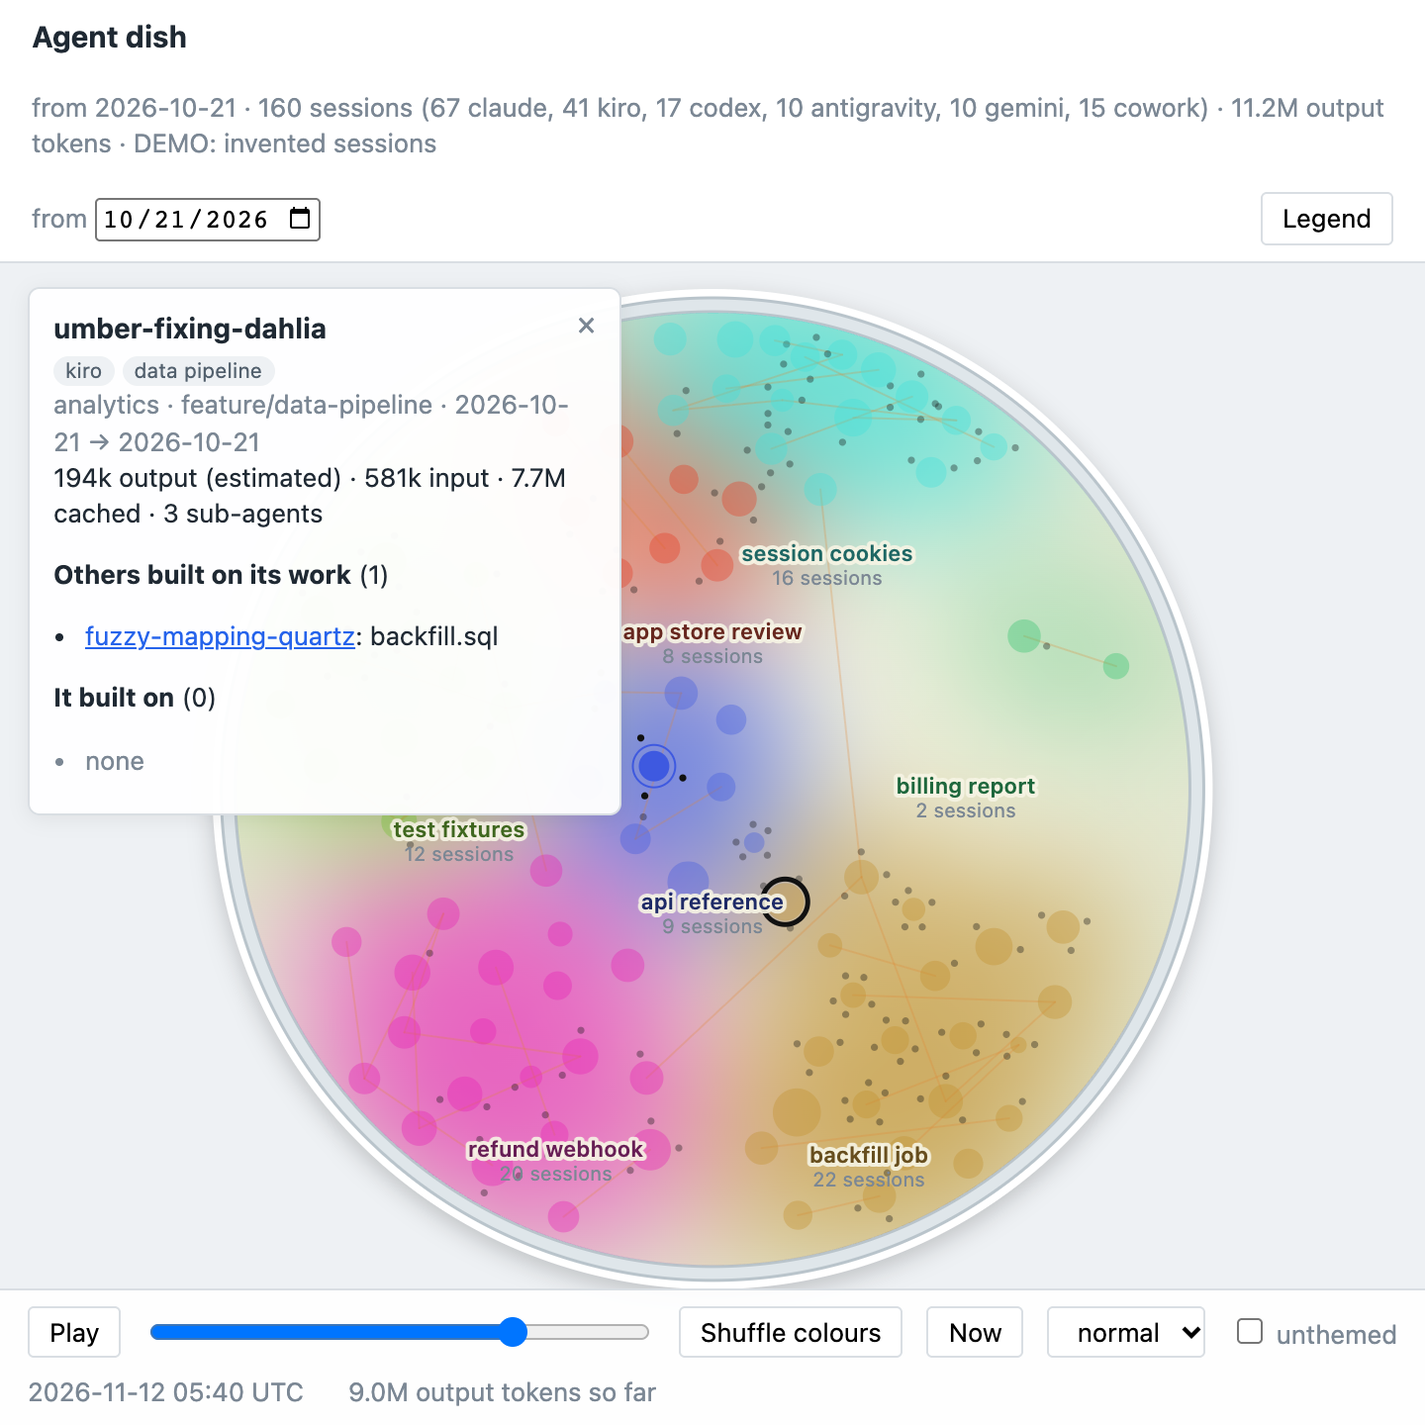
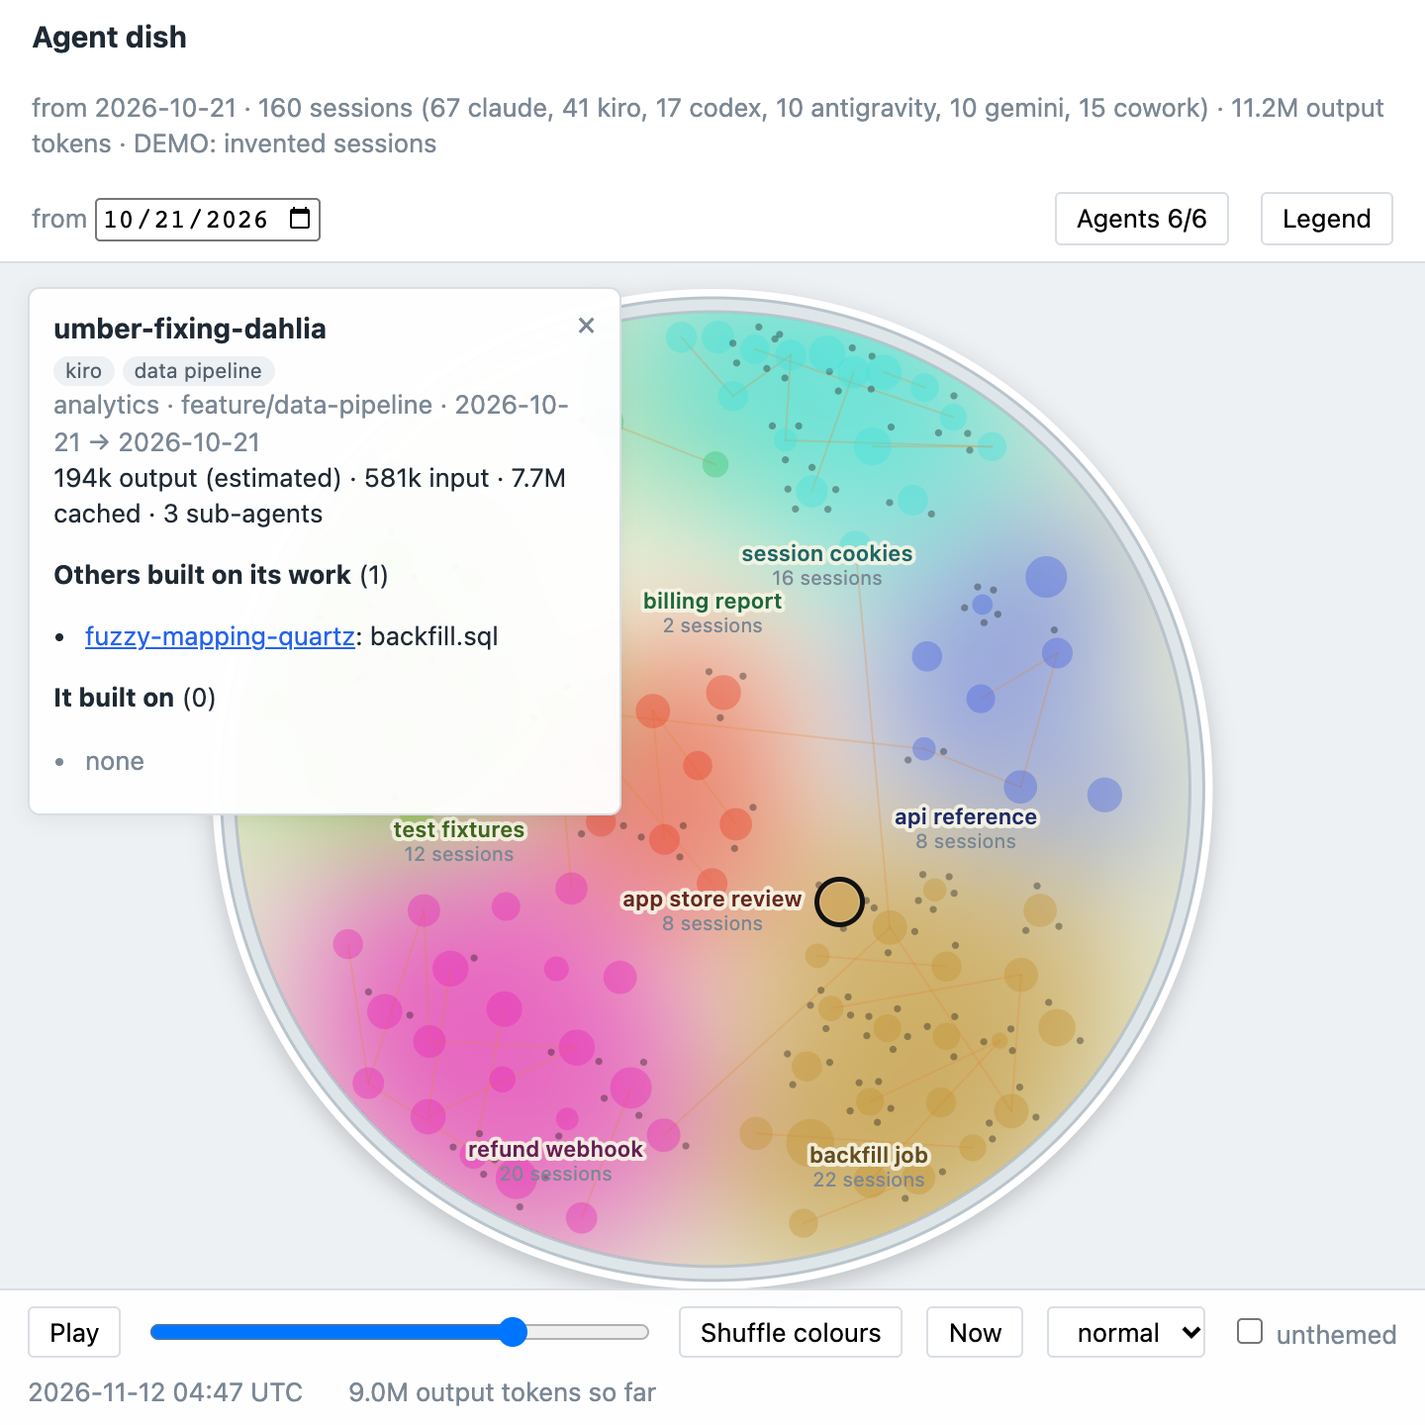
Page: an Agents menu to choose which AIs to include; the from-date now starts the play bar and the token counts; refreshed README images

diff --git a/src/agent_dish/web/template.html b/src/agent_dish/web/template.html
@@ -17,6 +17,9 @@
   #legend .lr b { display:block; } #legend .sub { color:var(--mute); }
   #sizeScale { display:flex; align-items:flex-end; gap:12px; margin:6px 0 2px 2px; } #sizeScale div { text-align:center; font-size:10px; color:var(--mute); }
   #sizeScale i { display:block; margin:0 auto 2px; border-radius:50%; background:#6a4fd6; }
+  #agents { position:fixed; top:46px; right:14px; width:320px; background:#fff; border:1px solid var(--line); border-radius:6px; padding:10px 12px; z-index:7; box-shadow:0 4px 18px #0002; display:none; }
+  #agents h3 { margin:0 0 6px; font-size:13px; } #agents .agrow { display:grid; grid-template-columns:18px auto; gap:0 6px; padding:4px 0; cursor:pointer; }
+  #agents .agrow .mute { grid-column:2; font-size:11.5px; } #agents .links { margin-top:6px; font-size:12px; }
   #card { position:absolute; left:14px; top:12px; width:300px; background:#fffffff5; border:1px solid var(--line); border-radius:6px; padding:10px 12px; z-index:4; box-shadow:0 2px 10px #0001; display:none; max-height:calc(100% - 90px); overflow:auto; }
   #card h2 { font-size:14px; margin:0 0 2px; padding-right:18px; word-break:break-word; } #card ul { margin:4px 0 8px; padding-left:16px; }
   #card .x { position:absolute; right:8px; top:6px; border:0; background:none; font-size:16px; color:var(--mute); padding:0 4px; }
@@ -31,8 +34,10 @@
   <span class="mute" id="stats"></span>
   <label class="mute">from <input type="date" id="since"></label>
   <span class="mute" id="live"></span>
-  <button id="legToggle" style="margin-left:auto" title="show or hide the legend">Legend</button>
+  <button id="agBtn" style="margin-left:auto" title="choose which agents to include">Agents</button>
+  <button id="legToggle" title="show or hide the legend">Legend</button>
 </header>
+<div id="agents"><h3>Include these agents</h3><div id="agList"></div><div class="links"><a class="s" id="agAll">all</a> · <a class="s" id="agNone">none</a> <span class="mute">· hides sessions only; `--agents` decides what is read</span></div></div>
 <div id="main">
   <canvas id="dish"></canvas>
   <div id="card"><button class="x" id="cardX">&times;</button><div id="cardBody"></div></div>
@@ -55,7 +60,7 @@
 </div>
 <script>
 let DATA = /*DATA*/null;
-let N, REAL, MAXOUT, T0, T1;
+let N, REAL, MAXOUT, T0, T1, START, userStart = 0;   // START: the chosen from-date, the play bar's left end
 const fmt = n => n >= 1e6 ? (n/1e6).toFixed(1)+'M' : n >= 1e3 ? Math.round(n/1e3)+'k' : String(Math.round(n));
 const base = p => p.split('/').pop();
 const hue = s => { let h = 0; for (const c of s) h = (h*31 + c.charCodeAt(0)) % 360; return h; };
@@ -68,12 +73,23 @@ const QUERY = new URLSearchParams(location.search);   // ?seed=40 fixes the colo
 let showUnthemed = (() => { try { return localStorage.getItem('agent-dish-unthemed') === '1'; } catch { return false; } })();
 const nameAt = (key, t) => { const a = (DATA.colonyNames || {})[key]; if (!a) return key; let name = key; for (const [d, nm] of a) { if (d <= t) name = nm; else break; } return name; };
 
+const AGENT_NAMES = { claude: 'Claude Code', cowork: 'Claude Cowork', kiro: 'Kiro', antigravity: 'Antigravity', gemini: 'Gemini CLI', codex: 'Codex' };
+let disabledAgents = new Set((() => { try { return JSON.parse(localStorage.getItem('agent-dish-agents-off') || '[]'); } catch { return []; } })());
+const agentLabel = a => DATA.agentMeta?.[a]?.label || AGENT_NAMES[a] || a;
+const included = n => !disabledAgents.has(n.agent);
+
 function index() {
   N = new Map(DATA.nodes.map(n => [n.id, n])); REAL = DATA.nodes;
   MAXOUT = Math.max(1, ...REAL.map(n => n.out));
-  T0 = Math.min(...REAL.filter(n => n.start).map(n => n.start)); T1 = Math.max(...REAL.map(n => n.end));
-  const by = {}; for (const n of REAL) by[n.agent] = (by[n.agent] || 0) + 1;
-  $('stats').textContent = `from ${date(DATA.since)} · ${REAL.length} sessions (${Object.entries(by).map(([a,c]) => c+' '+a).join(', ')}) · ${fmt(REAL.reduce((a,n)=>a+n.out,0))} output tokens` + (DATA.demo ? ' · DEMO: invented sessions' : '');
+  T1 = Math.max(...REAL.map(n => n.end));
+  START = Math.min(Math.max(DATA.since, userStart), T1);   // the bar starts at the date you chose, not at the first session
+  T0 = START;
+  for (const n of REAL) n._base = START > DATA.since ? cumAt(n, START) : 0;   // tokens from before that date do not count
+  const inc = REAL.filter(n => included(n) && n.end >= START), by = {}; for (const n of inc) by[n.agent] = (by[n.agent] || 0) + 1;
+  const hidden = REAL.filter(n => !included(n) && n.end >= START).length, kinds = new Set(REAL.map(n => n.agent));
+  $('stats').textContent = `from ${date(START)} · ${inc.length} sessions${inc.length ? ` (${Object.entries(by).map(([a, c]) => c + ' ' + a).join(', ')})` : ''} · ${fmt(inc.reduce((a, n) => a + winOut(n), 0))} output tokens`
+    + (hidden ? ` · ${hidden} hidden` : '') + (DATA.demo ? ' · DEMO: invented sessions' : '');
+  $('agBtn').textContent = `Agents ${[...kinds].filter(a => !disabledAgents.has(a)).length}/${kinds.size}`;
 }
 function fit(c, w, h) { const k = devicePixelRatio||1; c.style.width = w+'px'; c.style.height = h+'px'; c.width = w*k; c.height = h*k; c.getContext('2d').setTransform(k,0,0,k,0,0); return [w,h]; }
 function fitTo(c) { const r = c.parentElement.getBoundingClientRect(); return fit(c, r.width, r.height); }
@@ -103,7 +119,7 @@ const cumAt = (n, t) => { const c = n.curve; if (!c.length || t < c[0][0]) retur
   let lo = 0, hi = c.length-1; while (hi-lo > 1) { const m = (lo+hi)>>1; c[m][0] <= t ? lo = m : hi = m; }
   const f = (t-c[lo][0])/Math.max(1, c[hi][0]-c[lo][0]); return c[lo][1] + f*(c[hi][1]-c[lo][1]); };
 
-const nodeTip = n => `${n.label}\n${n.agent} · ${n.project}${n.branch ? ' · '+n.branch : ''}${n.theme ? '\ntheme: '+n.theme : ''}\n${fmt(n.out)}${n.est ? ' (estimated)' : ''} output tokens · ${n.subs} sub-agents · ${n.kids} built on it\n${date(n.start)} → ${date(n.end)}`;
+const nodeTip = n => `${n.label}\n${n.agent} · ${n.project}${n.branch ? ' · '+n.branch : ''}${n.theme ? '\ntheme: '+n.theme : ''}\n${fmt(winOut(n))}${n.est ? ' (estimated)' : ''} output tokens · ${n.subs} sub-agents · ${n.kids} built on it\n${date(n.start)} → ${date(n.end)}`;
 
 // ================= 4. PETRI DISH (time-lapse / live) =================
 const dc = $('dish'), dx = dc.getContext('2d'); let DW = 0, DH = 0, dn = [], de = [], centers = new Map(), now = 0, playing = true, lastF = 0, atEnd = false;
@@ -111,7 +127,7 @@ const dishR = () => Math.max(100, Math.min(DW, DH-70)/2 - 14);
 const lastActive = n => Math.max(lastGrowth(n), n.start);  // newest thing this cell did, as of the dish clock
 let rankOf = new Map();  // cell id -> 0 = newest in its colony
 function rebuildDish() {
-  const live = REAL.filter(n => n.out > 0 && (showUnthemed || n.theme !== 'unthemed')), counts = new Map(); for (const n of live) counts.set(n.theme, (counts.get(n.theme) || 0) + 1);
+  const live = REAL.filter(n => n.out > 0 && n.end >= START && included(n) && (showUnthemed || n.theme !== 'unthemed')), counts = new Map(); for (const n of live) counts.set(n.theme, (counts.get(n.theme) || 0) + 1);
   const maxC = Math.max(1, ...[...counts].filter(([k]) => k !== 'unthemed').map(([, v]) => v)), prev = centers; centers = new Map();
   for (const [name, c] of counts) { const o = prev.get(name);  // keep positions across live updates so colonies do not jump
     centers.set(name, { x:o ? o.x : 0, y:o ? o.y : 0, cur:o?.cur, prev:o?.prev, chg:o?.chg, tx:0, ty:0, last:0, r:dishR()*(0.08 + 0.22*Math.sqrt(c/maxC)), count:c, name, seed:hue(name)/57 }); }
@@ -200,6 +216,7 @@ function drawDish() {
       dx.globalAlpha = alpha; dx.lineWidth = 4; dx.strokeStyle = '#f6f4e4e6'; dx.strokeText(name, lx, ty); dx.fillStyle = `hsl(${tcol(c.name).h} 55% 26%)`; dx.fillText(name, lx, ty); }
     dx.globalAlpha = 1; dx.font = '10px system-ui'; dx.fillStyle = '#7b8794'; dx.fillText(`${c.live} ${c.live === 1 ? 'session' : 'sessions'}`, lx, ty+12); dx.font = '600 11px system-ui';
   }
+  if (!dn.length) { dx.globalAlpha = 1; dx.font = '13px system-ui'; dx.fillStyle = '#7b8794'; dx.textAlign = 'center'; dx.fillText('No sessions to show. Choose agents in the Agents menu.', 0, 0); }
   dx.restore(); dx.globalAlpha = 1;
 }
 function hslRgb(h, s, l) { s /= 100; l /= 100; const k = n => (n + h/30) % 12, a = s*Math.min(l, 1-l), f = n => l - a*Math.max(-1, Math.min(k(n)-3, 9-k(n), 1)); return [255*f(0), 255*f(8), 255*f(4)]; }
@@ -213,13 +230,15 @@ function tcol(theme) {  // golden-angle hues keep neighbours apart; 'unthemed' s
 function shuffleColours() {  // new seed and a new random order of who gets which hue
   const names = [...new Set(REAL.map(n => n.theme))].sort(() => Math.random() - 0.5); colorSeed = Math.random()*360; themeCol = new Map(); themeSeq = 0; names.forEach(tcol);
 }
+const grown = (n, tt) => Math.max(0, cumAt(n, tt) - (n._base || 0));   // tokens since the chosen date
+const winOut = n => Math.max(0, n.out - (n._base || 0));
 const dishColor = n => tcol(n.theme).css;
 const dotR = tokens => 2.5 + 2.7*Math.log10(1 + tokens/500); // log scale: 1k tokens ~ 3.6px wide growth shows on small sessions too
-const radiusAt = n => dotR(cumAt(n, now));
+const radiusAt = n => dotR(grown(n, now));
 const lastGrowth = n => { let l = 0; for (const p of n.curve) if (p[0] <= now) l = p[0]; return l; };
 dc.onclick = ev => { const p = pickIn(dc, dn.filter(q => q.d.start <= now), q => radiusAt(q.d), { clientX:ev.clientX, clientY:ev.clientY+28 }, DW, DH); if (p) select(p.d.id); };
 dc.onmousemove = ev => { const p = pickIn(dc, dn.filter(q => q.d.start <= now), q => radiusAt(q.d), { clientX:ev.clientX, clientY:ev.clientY+28 }, DW, DH);
-  dc.style.cursor = p ? 'pointer' : 'default'; p ? showTip(ev, nodeTip(p.d) + `\nat this moment: ${fmt(cumAt(p.d, now))} of ${fmt(p.d.out)} tokens`) : tip.style.display = 'none'; };
+  dc.style.cursor = p ? 'pointer' : 'default'; p ? showTip(ev, nodeTip(p.d) + `\nat this moment: ${fmt(grown(p.d, now))} of ${fmt(winOut(p.d))} tokens`) : tip.style.display = 'none'; };
 dc.onmouseleave = () => { tip.style.display = 'none'; };   // the tooltip must not outlive the pointer
 $('play').onclick = () => { playing = !playing; $('play').textContent = playing ? 'Pause' : 'Play'; };
 $('shufBtn').onclick = () => { shuffleColours(); };
@@ -235,7 +254,7 @@ function select(id) {
   const files = e => e.paths.map(p => esc(base(p))).join(', ');
   $('cardBody').innerHTML = `<h2>${esc(n.label)}</h2><div><span class="tag">${esc(n.agent)}</span><span class="tag">${esc(n.theme)}</span></div>
     <div class="mute">${esc(n.project)}${n.branch ? ' · '+esc(n.branch) : ''} · ${date(n.start)} → ${date(n.end)}</div>
-    <div>${fmt(n.out)} output${n.est ? ' (estimated)' : ''} · ${fmt(n.inn)} input · ${fmt(n.cache)} cached · ${n.subs} sub-agents</div>
+    <div>${fmt(winOut(n))} output${n.est ? ' (estimated)' : ''} · ${fmt(n.inn)} input · ${fmt(n.cache)} cached · ${n.subs} sub-agents</div>
     <p><b>Others built on its work</b> (${out.length})</p><ul>${out.map(e => `<li>${link(e.b)}: ${files(e)}</li>`).join('') || '<li class="mute">none</li>'}</ul>
     <p><b>It built on</b> (${inn.length})</p><ul>${inn.map(e => `<li>${link(e.a)}: ${files(e)}</li>`).join('') || '<li class="mute">none</li>'}</ul>`;
   $('card').style.display = 'block';
@@ -245,16 +264,37 @@ $('cardX').onclick = () => select(null);
 
 // ================= legend =================
 function setDays() {
-  $('legDays').textContent = date(DATA.since); const s = $('since'); s.value = date(DATA.since); s.max = date(Date.now()/1000);
+  $('legDays').textContent = date(START); const s = $('since'); s.value = date(START); s.max = date(T1);
   if (!location.protocol.startsWith('http')) s.min = date(DATA.since);   // a static snapshot cannot look further back than it was built
 }
-$('since').onchange = async ev => {  // served: rebuild the window from that date; snapshot: just start the replay there
+$('since').onchange = async ev => {  // served: rebuild the window from that date; snapshot: narrow the window to it
   const v = ev.target.value; if (!v) return;
-  if (location.protocol.startsWith('http')) { try { load(await (await fetch('/graph.json?since=' + v, { cache:'no-store' })).json(), true); setDays(); } catch {} }
-  else now = Math.max(T0, Date.parse(v + 'T00:00:00Z')/1000);
+  if (location.protocol.startsWith('http')) {
+    try { userStart = 0; load(await (await fetch('/graph.json?since=' + v, { cache:'no-store' })).json(), true); setDays(); } catch {}
+  } else {
+    userStart = Date.parse(v + 'T00:00:00Z')/1000; index(); rebuildDish(); setDays(); now = T0;   // the play bar now starts here
+    if (sel && N.get(sel) && (N.get(sel).end < START || !included(N.get(sel)))) select(null);
+  }
   playing = true; $('play').textContent = 'Pause';
 };
 $('sizeScale').innerHTML = [[1e3,'1k'],[1e4,'10k'],[1e5,'100k'],[1e6,'1M']].map(([v,l]) => `<div><i style="width:${2*dotR(v)}px;height:${2*dotR(v)}px"></i>${l}</div>`).join('');
+function agentsPanel() {
+  const counts = {}; for (const n of REAL) counts[n.agent] = (counts[n.agent] || 0) + 1;
+  $('agList').innerHTML = Object.keys(counts).sort().map(a => {
+    const m = DATA.agentMeta?.[a] || {}, notes = [m.estimated ? 'tokens estimated' : '', m.experimental ? 'experimental' : ''].filter(Boolean).join(', ');
+    return `<label class="agrow"><input type="checkbox" data-a="${esc(a)}" ${disabledAgents.has(a) ? '' : 'checked'}><span>${esc(agentLabel(a))}</span><span class="mute">${counts[a]} sessions${notes ? ' · ' + esc(notes) : ''}</span></label>`;
+  }).join('');
+}
+function setAgents(off) {   // apply, remember, redraw
+  disabledAgents = off; try { localStorage.setItem('agent-dish-agents-off', JSON.stringify([...off])); } catch {}
+  index(); rebuildDish(); agentsPanel(); if (sel && N.get(sel) && !included(N.get(sel))) select(null);
+}
+$('agList').onchange = ev => { const a = ev.target.dataset.a; if (!a) return; const off = new Set(disabledAgents); ev.target.checked ? off.delete(a) : off.add(a); setAgents(off); };
+$('agAll').onclick = () => setAgents(new Set());
+$('agNone').onclick = () => setAgents(new Set(REAL.map(n => n.agent)));
+$('agBtn').onclick = ev => { ev.stopPropagation(); const open = $('agents').style.display !== 'block'; $('agents').style.display = open ? 'block' : 'none'; if (open) agentsPanel(); };
+document.addEventListener('click', ev => { if (!$('agents').contains(ev.target)) $('agents').style.display = 'none'; });
+document.addEventListener('keydown', ev => { if (ev.key === 'Escape') $('agents').style.display = 'none'; });
 function showLegend(on) { $('legend').style.display = on ? '' : 'none'; $('legToggle').style.background = on ? '#e8edf2' : '#fff'; try { localStorage.setItem('agent-dish-legend', on ? '1' : '0'); } catch {} }
 $('legBtn').onclick = () => showLegend(false);   // the panel's own "hide"
 $('legToggle').onclick = () => showLegend($('legend').style.display === 'none');
@@ -265,7 +305,7 @@ $('unth').checked = showUnthemed;
 $('unth').onchange = ev => { showUnthemed = ev.target.checked; try { localStorage.setItem('agent-dish-unthemed', showUnthemed ? '1' : '0'); } catch {} rebuildDish(); };
 function layout() { [DW,DH] = fitTo(dc); }
 window.onresize = () => { layout(); rebuildDish(); };
-function load(data, first) { DATA = data; index(); rebuildDish(); if (first) now = T0; if (sel && N.get(sel)) select(sel); }
+function load(data, first) { DATA = data; index(); rebuildDish(); if (first) now = T0; now = Math.max(now, T0); if (sel && N.get(sel)) select(sel); }
 load(DATA, true); layout(); rebuildDish(); setDays();
 (function loop(ts) {
   const dt = Math.min(0.1, (ts-lastF)/1000 || 0); lastF = ts;
@@ -274,7 +314,7 @@ load(DATA, true); layout(); rebuildDish(); setDays();
   for (const c of centers.values()) { c.x += (c.tx-c.x)*0.04; c.y += (c.ty-c.y)*0.04; }
   forces(dn, de, cellTarget, 0.05);
   for (const p of dn) { const lim = dishR() - 8 - radiusAt(p.d) - (p.d.divs.length ? 6 : 0), d = Math.hypot(p.x, p.y); if (d > lim) { p.x *= lim/d; p.y *= lim/d; p.vx *= -0.3; p.vy *= -0.3; } }
-  drawDish(); $('tot').textContent = fmt(dn.reduce((a, p) => a + cumAt(p.d, now), 0)) + ' output tokens so far'; $('clock').textContent = new Date(now*1000).toISOString().replace('T',' ').slice(0,16) + ' UTC';
+  drawDish(); $('tot').textContent = fmt(dn.reduce((a, p) => a + grown(p.d, now), 0)) + ' output tokens so far'; $('clock').textContent = new Date(now*1000).toISOString().replace('T',' ').slice(0,16) + ' UTC';
   requestAnimationFrame(loop);
 })(0);
 // live mode: when served by `agent-dish serve`, re-read graph.json and keep growing

diff --git a/tests/test_build.py b/tests/test_build.py
@@ -53,3 +53,14 @@ def test_render_embeds_data_safely(roots):
 def test_parse_since():
     assert parse_since("2026-10-01") == 1_790_812_800
     assert parse_since(None) is None
+
+
+def test_agent_meta_labels_every_agent_present_and_flags_the_honest_caveats(roots):
+    g = build(days=30, agents="all", now=NOW, log=lambda *_: None)
+    meta = g["agentMeta"]
+    assert set(meta) == set(g["agents"])
+    assert meta["kiro"]["estimated"] and not meta["claude"]["estimated"]
+    assert meta["gemini"]["experimental"] and meta["codex"]["experimental"] and not meta["cowork"]["experimental"]
+    assert meta["cowork"]["label"] == "Claude Cowork"
+    only = build(days=30, agents="claude", now=NOW, log=lambda *_: None)
+    assert set(only["agentMeta"]) == {"claude"}  # only agents that were asked for and found

diff --git a/src/agent_dish/build.py b/src/agent_dish/build.py
@@ -179,6 +179,12 @@ def build(days=30, agents="all", out_dir=None, now=None, log=print, since=None):
         if a in S and b in S
     ]
 
+    present = {n["agent"] for n in nodes}
+    meta = {
+        ad.name: dict(label=ad.label, experimental=ad.experimental, estimated=ad.tokens_estimated)
+        for ad in selected(agents)
+        if ad.name in present
+    }
     graph = dict(
         days=days,
         since=cut,
@@ -187,6 +193,7 @@ def build(days=30, agents="all", out_dir=None, now=None, log=print, since=None):
         nodes=nodes,
         edges=edges,
         colonyNames=names,
+        agentMeta=meta,
     )
     tmp = os.path.join(out_dir, "graph.json.tmp")
     with open(tmp, "w") as fh:

diff --git a/src/agent_dish/demo.py b/src/agent_dish/demo.py
@@ -7,6 +7,7 @@ import math
 import random
 import time
 
+from .adapters import ADAPTERS
 from .themes import DAY
 
 AGENTS = ("claude", "cowork", "kiro", "antigravity", "gemini", "codex")  # the order of the weights below
@@ -223,4 +224,8 @@ def demo_graph(days=30, end=None, seed=7):
         nodes=nodes,
         edges=edges,
         colonyNames=names,
+        agentMeta={
+            a.name: dict(label=a.label, experimental=a.experimental, estimated=a.tokens_estimated)
+            for a in ADAPTERS.values()
+        },
     )

diff --git a/tests/test_demo.py b/tests/test_demo.py
@@ -39,3 +39,9 @@ def test_demo_renders_with_the_demo_banner():
     html = render(demo_graph(30, END, 7))
     assert json.loads(html.split("let DATA = ")[1].split(";\nlet N")[0])["demo"] is True
     assert "DEMO: invented sessions" in html
+
+
+def test_demo_describes_all_six_agents():
+    g = demo_graph(30, END, 7)
+    assert set(g["agentMeta"]) == set(AGENTS)
+    assert g["agentMeta"]["kiro"]["estimated"] and g["agentMeta"]["gemini"]["experimental"]

diff --git a/docs/how-to-read.md b/docs/how-to-read.md
@@ -22,6 +22,12 @@ Pick the start date with the **from** box in the header (a snapshot can only sta
 
 ## Controls
 
+- **from** sets where the play bar starts. The bar runs from that date to the newest activity, token counts start at zero on
+  that date, and only sessions active since then are shown. A served dish rebuilds its window from the date you pick (it
+  can look back as far as your transcripts go); a saved snapshot can only narrow what it was built with.
+- **Agents** chooses which AIs to include (Claude Code, Claude Cowork, Kiro, Antigravity, Gemini CLI, Codex), with the number
+  of sessions each has. Your choice is remembered. It only hides sessions in the page; `--agents` on the command line decides
+  what is read in the first place.
 - **Play / Pause**, the **scrubber** (drag to any moment), and **speed**. Normal plays 30 days in about a minute.
 - **Now** jumps to the newest activity and follows it. A served dish refreshes itself every 10 seconds.
 - Click a cell for its details: agent, project, branch, tokens, who built on it and what it built on.

diff --git a/CHANGELOG.md b/CHANGELOG.md
@@ -11,5 +11,7 @@ First release.
 - Live mode with `agent-dish serve`: re-reads only the transcripts that changed. Pick the start date with `--since` or in the page.
 - No installer needed: standard library only, so it runs with `uvx`, plain `pip`, a clone, or a single-file `agent-dish.pyz`
   (attached to each release). `agent-dish serve` uses port 3474, with a random free port if that is busy.
+- In the page: an **Agents** menu to choose which AIs to include (remembered), and a **from** date that is also where the
+  play bar starts.
 - `agent-dish demo`: invented sessions to try it with no history of your own.
 - Colonies and cells are placed by recency; a heat-map floor shows where work clusters; unthemed sessions are hidden by default.

diff --git a/README.md b/README.md
@@ -94,6 +94,8 @@ agent-dish demo --open                  # invented sessions, nothing from your m
 The first run reads every transcript in the window (about 15 seconds for a thousand). After that only transcripts that
 changed are re-read, so live updates take about a second.
 
+In the page, **from** picks the start date (the play bar starts there) and **Agents** picks which AIs to include.
+
 How to read what you see: [docs/how-to-read.md](https://github.com/kamingfung/agent-dish/blob/main/docs/how-to-read.md), or press **Legend** in the page.
 
 ## What it can and cannot tell you
